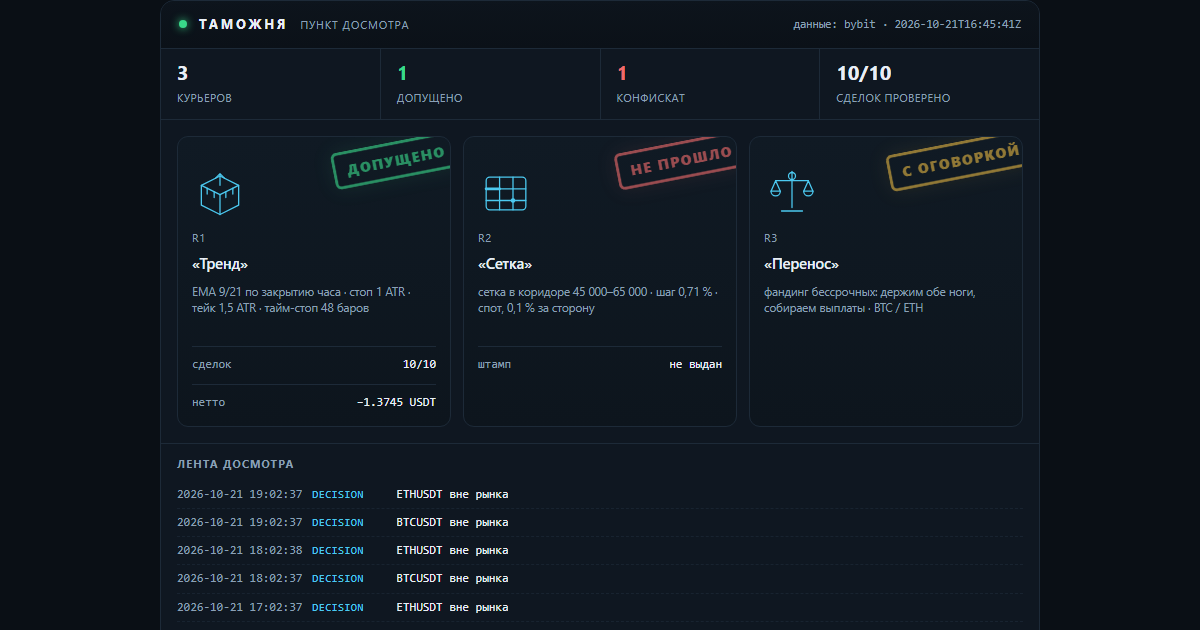
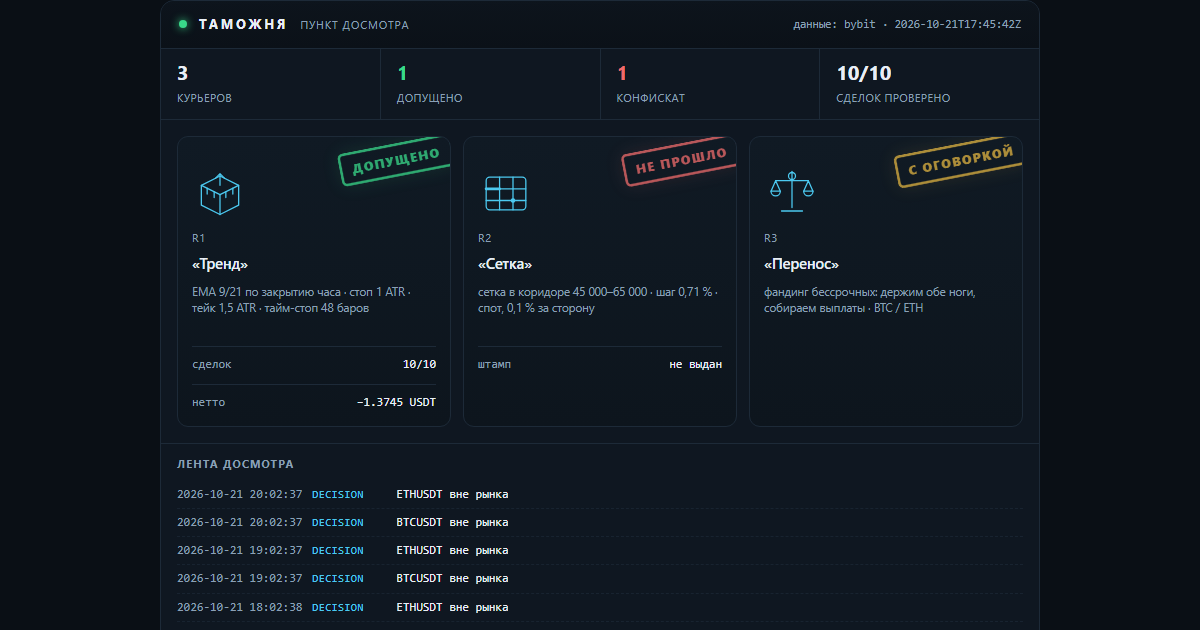
lab: таможня — свежие числа досмотра

Changed region(s): [[0.74, 0.2111, 0.8633, 0.3016], [0.4933, 0.2111, 0.6167, 0.3016], [0.2775, 0.2111, 0.37, 0.3016]]

diff --git a/docs/customs.html b/docs/customs.html
@@ -16,7 +16,7 @@
   <h1><a href="index.html">Gramwright Lab</a></h1>
   <p>Журнал проверки торговых гипотез: что проверяли, что вышло по факту, сколько съели издержки. Числа берутся из журнала стенда. Не инвестиционная рекомендация.</p>
 </header>
-<h1>Таможня</h1><p class="intro">Пункт досмотра заявленных результатов. Стратегии приезжают с грузом обещаний, и каждая проходит проверку по публичным данным биржи: цены существуют, комиссии по тарифу, нетто сходится. Что прошло — получает штамп. Что не прошло — в конфискат, с причиной. Штамп означает «записи подлинные», а не «стратегия прибыльна».</p><p><img src="img/customs.png" alt="Терминал досмотра: три курьера, штампы, лента событий" style="width:100%;height:auto;border:1px solid var(--line);border-radius:10px"></p><p class="c-note">Сверху — тот же терминал, что собирается из журналов: счётчики, эмблемы курьеров, штампы и лента последних событий. Ниже — то же самое текстом, чтобы читалось с телефона и индексировалось поиском.</p><article><h2>R1 «Тренд» <span class="verdict">— <span class="c-ok">допущено</span></span></h2><p><strong>Правило:</strong> EMA 9/21 по закрытию часа · стоп 1 ATR · тейк 1,5 ATR · тайм-стоп 48 баров</p><p><strong>Декларация:</strong> Заявлено до прогона: держать 30 сделок, лимит нотионала 10 % от счёта, стоп дня −1 %. Прибыль не заявлялась — это важно: курьер не обещал доход.</p><p><strong>Проверено по публичным свечам, без ключей:</strong> 10 из 10 сделок. Сумма нетто −1.3745 USDT.</p><ul class="c-chk"><li class="y">BTCUSDT: нетто −0.8746 USDT · комиссии 0.0901 · проверено · с поправкой</li><li class="y">BTCUSDT: нетто −0.5441 USDT · комиссии 0.0896 · проверено</li><li class="y">ETHUSDT: нетто −0.2253 USDT · комиссии 0.0266 · проверено</li><li class="y">ETHUSDT: нетто −0.1513 USDT · комиссии 0.0265 · проверено</li><li class="y">ETHUSDT: нетто +0.1984 USDT · комиссии 0.0262 · проверено</li><li class="y">ETHUSDT: нетто +0.1617 USDT · комиссии 0.0260 · проверено</li><li class="y">ETHUSDT: нетто +0.2645 USDT · комиссии 0.0263 · проверено</li><li class="y">BTCUSDT: нетто +0.6246 USDT · комиссии 0.0897 · проверено</li><li class="y">BTCUSDT: нетто −0.5881 USDT · комиссии 0.0910 · проверено</li><li class="y">ETHUSDT: нетто −0.2403 USDT · комиссии 0.0270 · проверено</li></ul><p class="tags">журнал sha256 7e1cf008073ecfed… · проверяльщик verify-1</p><p class="c-note">Штамп означает: записи подлинные, а не что стратегия прибыльна. Курьер в минусе, и минус тоже стоит на штампе — иначе это была бы не проверка, а реклама.</p><p class="tags">источник: verify-report.json</p></article><article><h2>R2 «Сетка» <span class="verdict">— <span class="c-bad">не прошло</span></span></h2><p><strong>Правило:</strong> сетка в коридоре 45 000–65 000 · шаг 0,71 % · спот, 0,1 % за сторону</p><p><strong>Декларация:</strong> Заявлено: «44 % урожая уходит бирже в виде комиссий». Кроме того — перевес над простым владением монетой.</p><p><strong>Что сошлось:</strong></p><ul class="c-chk"><li class="y">сами числа пересчитаны и воспроизводятся: коридор 45–65k был активен 23 % всей истории и 28 % последних двух лет</li></ul><p><strong>Что не сошлось:</strong></p><ul class="c-chk"><li class="n">44 % не подтвердилось: при шаге 0,71 % и тарифе 0,1 % комиссия съедает 28,3 % шага. Чтобы получить 44 %, нужен шаг 0,45 % — это около 80 уровней, а не 50</li><li class="n">от урожая доля комиссий 85,5 % за всю историю и 49,6 % за последние два года — тоже не 44 %</li><li class="n">перевес над владением посчитан на тарифе 0,055 %: при нём +1,32 п. п., на розничном 0,1 % — −0,72 п. п. То есть перевес исчезает</li><li class="n">семилетний тест стартовал в сентябре 2019 при биткоине около 10 000 — ниже коридора. Он говорит, что фиксированный коридор не подходит для периода, а не что сетка отстаёт</li></ul><p class="tags">источник: lab_grid.py, пересчёт 17.10.2026</p></article><article><h2>R3 «Перенос» <span class="verdict">— <span class="c-warn">с оговоркой</span></span></h2><p><strong>Правило:</strong> фандинг бессрочных: держим обе ноги, собираем выплаты · BTC / ETH</p><p><strong>Декларация:</strong> Заявлено: около 11,9 % в год от выплат фандинга при просадке выплатной кривой меньше 2 %.</p><p><strong>Что сошлось:</strong></p><ul class="c-chk"><li class="y">выплаты взяты из публичной истории биржи, ключей не нужно: BTC — 7 190 выплат с 25.03.2020, ETH — 6 561 с 21.10.2020</li><li class="y">сумма сходится: +83,4 % и +83,2 % за 6,6 и 6,0 года — те самые ~11,9 % в год</li><li class="y">худшая просадка выплатной кривой: −1,65 % и −1,97 %</li></ul><p><strong>Что не сошлось:</strong></p><ul class="c-chk"><li class="n">оговорка 1: премию сжали — 2021 год дал +38,3 %, 2026 — +1,96 %. Прошлое не повторяется</li><li class="n">оговорка 2: вход-выход стоит около 0,31 %, капитала нужно 1,2 от нотионала, текущий базис −0,082 % против входа</li><li class="n">оговорка 3: риск площадки. История FTX в этой же таблице выглядела так же прилично</li></ul><p class="tags">источник: публичная история фандинга Bybit, замер 17.10.2026</p></article><div class="c-conf"><h3>Конфискат</h3><p><strong>«Сетка»: заявленные 44 % комиссий не подтвердились.</strong> Досмотр показал 28,3 % от шага и 85,5 % от урожая — цифра хуже заявленной по форме, но лучше по смыслу: сетку убивает не размер шага, а то, что урожай почти весь уходит в комиссии. Это и вышло в выпуск — с поправкой, а не с красивой цифрой.</p></div><p class="c-note">Пломба: <code>2026-10-21T16:45:41Z</code> · нотариус FreeTSA · Oct 21 16:45:41 2026 GMT · подпись подтверждена. Манифест скрепляет отчёт проверки, журнал сделок и декларации курьеров: подменишь любую цифру — пломба перестанет сходиться.</p><p class="c-note">Досмотр идёт по публичным минутным свечам и публичной истории фандинга — ключей у проверяющего нет, и он может повторить проверку сам.</p><p class="c-note">Контент образовательный, не является инвестиционной рекомендацией. Торговля связана с риском потери капитала.</p>
+<h1>Таможня</h1><p class="intro">Пункт досмотра заявленных результатов. Стратегии приезжают с грузом обещаний, и каждая проходит проверку по публичным данным биржи: цены существуют, комиссии по тарифу, нетто сходится. Что прошло — получает штамп. Что не прошло — в конфискат, с причиной. Штамп означает «записи подлинные», а не «стратегия прибыльна».</p><p><img src="img/customs.png" alt="Терминал досмотра: три курьера, штампы, лента событий" style="width:100%;height:auto;border:1px solid var(--line);border-radius:10px"></p><p class="c-note">Сверху — тот же терминал, что собирается из журналов: счётчики, эмблемы курьеров, штампы и лента последних событий. Ниже — то же самое текстом, чтобы читалось с телефона и индексировалось поиском.</p><article><h2>R1 «Тренд» <span class="verdict">— <span class="c-ok">допущено</span></span></h2><p><strong>Правило:</strong> EMA 9/21 по закрытию часа · стоп 1 ATR · тейк 1,5 ATR · тайм-стоп 48 баров</p><p><strong>Декларация:</strong> Заявлено до прогона: держать 30 сделок, лимит нотионала 10 % от счёта, стоп дня −1 %. Прибыль не заявлялась — это важно: курьер не обещал доход.</p><p><strong>Проверено по публичным свечам, без ключей:</strong> 10 из 10 сделок. Сумма нетто −1.3745 USDT.</p><ul class="c-chk"><li class="y">BTCUSDT: нетто −0.8746 USDT · комиссии 0.0901 · проверено · с поправкой</li><li class="y">BTCUSDT: нетто −0.5441 USDT · комиссии 0.0896 · проверено</li><li class="y">ETHUSDT: нетто −0.2253 USDT · комиссии 0.0266 · проверено</li><li class="y">ETHUSDT: нетто −0.1513 USDT · комиссии 0.0265 · проверено</li><li class="y">ETHUSDT: нетто +0.1984 USDT · комиссии 0.0262 · проверено</li><li class="y">ETHUSDT: нетто +0.1617 USDT · комиссии 0.0260 · проверено</li><li class="y">ETHUSDT: нетто +0.2645 USDT · комиссии 0.0263 · проверено</li><li class="y">BTCUSDT: нетто +0.6246 USDT · комиссии 0.0897 · проверено</li><li class="y">BTCUSDT: нетто −0.5881 USDT · комиссии 0.0910 · проверено</li><li class="y">ETHUSDT: нетто −0.2403 USDT · комиссии 0.0270 · проверено</li></ul><p class="tags">журнал sha256 75f99b1670c1acb1… · проверяльщик verify-1</p><p class="c-note">Штамп означает: записи подлинные, а не что стратегия прибыльна. Курьер в минусе, и минус тоже стоит на штампе — иначе это была бы не проверка, а реклама.</p><p class="tags">источник: verify-report.json</p></article><article><h2>R2 «Сетка» <span class="verdict">— <span class="c-bad">не прошло</span></span></h2><p><strong>Правило:</strong> сетка в коридоре 45 000–65 000 · шаг 0,71 % · спот, 0,1 % за сторону</p><p><strong>Декларация:</strong> Заявлено: «44 % урожая уходит бирже в виде комиссий». Кроме того — перевес над простым владением монетой.</p><p><strong>Что сошлось:</strong></p><ul class="c-chk"><li class="y">сами числа пересчитаны и воспроизводятся: коридор 45–65k был активен 23 % всей истории и 28 % последних двух лет</li></ul><p><strong>Что не сошлось:</strong></p><ul class="c-chk"><li class="n">44 % не подтвердилось: при шаге 0,71 % и тарифе 0,1 % комиссия съедает 28,3 % шага. Чтобы получить 44 %, нужен шаг 0,45 % — это около 80 уровней, а не 50</li><li class="n">от урожая доля комиссий 85,5 % за всю историю и 49,6 % за последние два года — тоже не 44 %</li><li class="n">перевес над владением посчитан на тарифе 0,055 %: при нём +1,32 п. п., на розничном 0,1 % — −0,72 п. п. То есть перевес исчезает</li><li class="n">семилетний тест стартовал в сентябре 2019 при биткоине около 10 000 — ниже коридора. Он говорит, что фиксированный коридор не подходит для периода, а не что сетка отстаёт</li></ul><p class="tags">источник: lab_grid.py, пересчёт 17.10.2026</p></article><article><h2>R3 «Перенос» <span class="verdict">— <span class="c-warn">с оговоркой</span></span></h2><p><strong>Правило:</strong> фандинг бессрочных: держим обе ноги, собираем выплаты · BTC / ETH</p><p><strong>Декларация:</strong> Заявлено: около 11,9 % в год от выплат фандинга при просадке выплатной кривой меньше 2 %.</p><p><strong>Что сошлось:</strong></p><ul class="c-chk"><li class="y">выплаты взяты из публичной истории биржи, ключей не нужно: BTC — 7 190 выплат с 25.03.2020, ETH — 6 561 с 21.10.2020</li><li class="y">сумма сходится: +83,4 % и +83,2 % за 6,6 и 6,0 года — те самые ~11,9 % в год</li><li class="y">худшая просадка выплатной кривой: −1,65 % и −1,97 %</li></ul><p><strong>Что не сошлось:</strong></p><ul class="c-chk"><li class="n">оговорка 1: премию сжали — 2021 год дал +38,3 %, 2026 — +1,96 %. Прошлое не повторяется</li><li class="n">оговорка 2: вход-выход стоит около 0,31 %, капитала нужно 1,2 от нотионала, текущий базис −0,082 % против входа</li><li class="n">оговорка 3: риск площадки. История FTX в этой же таблице выглядела так же прилично</li></ul><p class="tags">источник: публичная история фандинга Bybit, замер 17.10.2026</p></article><div class="c-conf"><h3>Конфискат</h3><p><strong>«Сетка»: заявленные 44 % комиссий не подтвердились.</strong> Досмотр показал 28,3 % от шага и 85,5 % от урожая — цифра хуже заявленной по форме, но лучше по смыслу: сетку убивает не размер шага, а то, что урожай почти весь уходит в комиссии. Это и вышло в выпуск — с поправкой, а не с красивой цифрой.</p></div><p class="c-note">Пломба: <code>2026-10-21T17:45:42Z</code> · нотариус FreeTSA · Oct 21 17:45:42 2026 GMT · подпись подтверждена. Манифест скрепляет отчёт проверки, журнал сделок и декларации курьеров: подменишь любую цифру — пломба перестанет сходиться.</p><p class="c-note">Досмотр идёт по публичным минутным свечам и публичной истории фандинга — ключей у проверяющего нет, и он может повторить проверку сам.</p><p class="c-note">Контент образовательный, не является инвестиционной рекомендацией. Торговля связана с риском потери капитала.</p>
 <footer class="site">
   Код стенда и аудитора: <a href="https://github.com/XSlaidx/truth-engine">XSlaidx/truth-engine</a>
   &middot; <a href="graveyard.html">кладбище правил</a>
